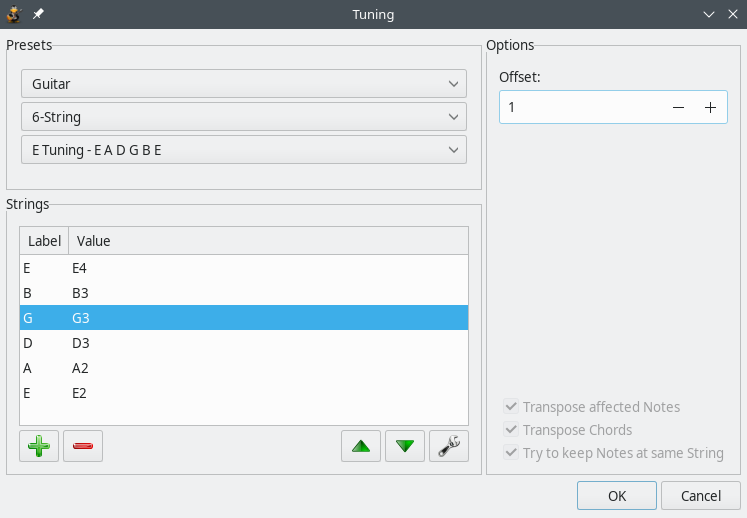
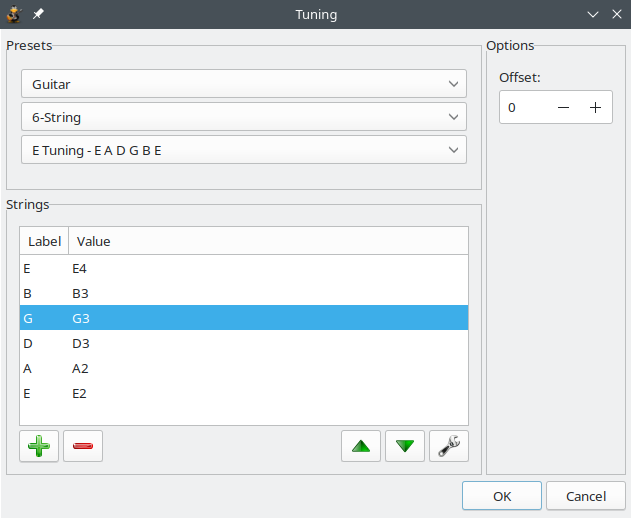
simplify "Change Tuning" dialog
remove options: previous behavior was unclear (and undocumented)

keep it simple
- never change notes pitch, there's a dedicated "transpose" action
  available for that
- try to keep strings and chords only if number of strings did not change,
  and if all notes were shifted by the same value
- else re-allocate notes to strings

also updated help:
- screenshot
- documentation of behavior
- description of "Offset" parameter

diff --git a/desktop/TuxGuitar/share/help/detail_composition_track.html b/desktop/TuxGuitar/share/help/detail_composition_track.html
@@ -103,6 +103,7 @@
     <h4>Tuning</h4>
     <p>Using the dropdown lists under <strong>Presets</strong>, you can select your stringed instrument, the number of strings and the tuning of the instrument from a range of predefined tunings.</p>
     <img src="images/track_properties_tuning.png" />
+    <p>When changing tuning of a non-empty track, <em>notes</em> and <em>chords</em> are preserved as far as possible, and <em>fret numbers</em> are adapted. Notes may be lost if they become unplayable in new selected tuning. Parameter <strong>Offset</strong> enables you to change globally the track's pitch when playing song. This parameter does not have any impact neither on score nor on tablature graphical representation.</p>
     <p>If you want to use a tuning that is not included in the presets, you can select <strong>-- Custom Tunings --</strong> in the first dropdown menu and edit the tuning of each individual string under <strong>Strings</strong>. You can now save your own tuning in the list of custom tunings.</p>
     <img src="images/track_properties_tuning_custom.png" />
   </section>

diff --git a/desktop/TuxGuitar/src/org/herac/tuxguitar/app/view/dialog/track/TGTrackTuningDialog.java b/desktop/TuxGuitar/src/org/herac/tuxguitar/app/view/dialog/track/TGTrackTuningDialog.java
@@ -38,12 +38,8 @@ public class TGTrackTuningDialog {
 	
 	private TuningGroup allTuningsGroup;	// group #0 = custom tuning presets, other groups = TuxGuitar's tuning presets
 
-	private List<TGTrackTuningModel> initialTuning;
 	private List<TGTrackTuningModel> tuning;
 	private UITable<TGTrackTuningModel> tuningTable;
-	private UICheckBox stringTransposition;
-	private UICheckBox stringTranspositionTryKeepString;
-	private UICheckBox stringTranspositionApplyToChords;
 	private UISpinner offsetSpinner;
 	private UIButton buttonEdit;
 	private UIButton buttonDelete;
@@ -75,7 +71,6 @@ public class TGTrackTuningDialog {
 		
 		if(!songManager.isPercussionChannel(track.getSong(), track.getChannelId())) {
 			this.tuning = getTuningFromTrack(track);
-			this.initialTuning = getTuningFromTrack(track);
 			
 			UIFactory factory = this.getUIFactory();
 			UIWindow parent = this.context.getAttribute(TGViewContext.ATTRIBUTE_PARENT);
@@ -457,11 +452,6 @@ public class TGTrackTuningDialog {
 		top.setLayout(topLayout);
 		panelLayout.set(top, 1, 1, UITableLayout.ALIGN_FILL, UITableLayout.ALIGN_TOP, true, true, 1, 1, null, null, 0f);
 		
-		UITableLayout bottomLayout = new UITableLayout(0f);
-		UIPanel bottom = factory.createPanel(panel, false);
-		bottom.setLayout(bottomLayout);
-		panelLayout.set(bottom, 3, 1, UITableLayout.ALIGN_FILL, UITableLayout.ALIGN_BOTTOM, true, true, 1, 1, null, null, 0f);
-		
 		//---------------------------------OFFSET--------------------------------
 		UILabel offsetLabel = factory.createLabel(top);
 		offsetLabel.setText(TuxGuitar.getProperty("tuning.offset") + ":");
@@ -473,31 +463,6 @@ public class TGTrackTuningDialog {
 		this.offsetSpinner.setValue(track.getOffset());
 		topLayout.set(this.offsetSpinner, 2, 1, UITableLayout.ALIGN_FILL, UITableLayout.ALIGN_CENTER, true, true);
 		
-		//---------------------------------OPTIONS----------------------------------
-		this.stringTransposition = factory.createCheckBox(bottom);
-		this.stringTransposition.setText(TuxGuitar.getProperty("tuning.strings.transpose"));
-		this.stringTransposition.setSelected( true );
-		bottomLayout.set(this.stringTransposition, 1, 1, UITableLayout.ALIGN_FILL, UITableLayout.ALIGN_CENTER, true, true);
-		
-		this.stringTranspositionApplyToChords = factory.createCheckBox(bottom);
-		this.stringTranspositionApplyToChords.setText(TuxGuitar.getProperty("tuning.strings.transpose.apply-to-chords"));
-		this.stringTranspositionApplyToChords.setSelected( true );
-		bottomLayout.set(this.stringTranspositionApplyToChords, 2, 1, UITableLayout.ALIGN_FILL, UITableLayout.ALIGN_CENTER, true, true);
-		
-		this.stringTranspositionTryKeepString = factory.createCheckBox(bottom);
-		this.stringTranspositionTryKeepString.setText(TuxGuitar.getProperty("tuning.strings.transpose.try-keep-strings"));
-		this.stringTranspositionTryKeepString.setSelected( true );
-		bottomLayout.set(this.stringTranspositionTryKeepString, 3, 1, UITableLayout.ALIGN_FILL, UITableLayout.ALIGN_CENTER, true, true);
-		
-		this.stringTransposition.addSelectionListener(new UISelectionListener() {
-			public void onSelect(UISelectionEvent event) {
-				UICheckBox stringTransposition = TGTrackTuningDialog.this.stringTransposition;
-				UICheckBox stringTranspositionApplyToChords = TGTrackTuningDialog.this.stringTranspositionApplyToChords;
-				UICheckBox stringTranspositionTryKeepString = TGTrackTuningDialog.this.stringTranspositionTryKeepString;
-				stringTranspositionApplyToChords.setEnabled((stringTransposition.isEnabled() && stringTransposition.isSelected()));
-				stringTranspositionTryKeepString.setEnabled((stringTransposition.isEnabled() && stringTransposition.isSelected()));
-			}
-		});
 	}
 	
 	private void initButtons(UILayoutContainer parent) {
@@ -674,18 +639,6 @@ public class TGTrackTuningDialog {
 		return(true);
 	}
 	
-	private static boolean areTuningsEqual(List<TGTrackTuningModel> a, List<TGTrackTuningModel> b) {
-		if(a.size() == b.size()) {
-			for(int i = 0 ; i < a.size(); i ++) {
-				if(!a.get(i).getValue().equals(b.get(i).getValue())) {
-					return false;
-				}
-			}
-			return true;
-		}
-		return false;
-	}
-	
 	private void updateTuningTable() {
 		TGTrackTuningModel selection = this.tuningTable.getSelectedValue();
 		
@@ -710,11 +663,6 @@ public class TGTrackTuningDialog {
 		buttonDelete.setEnabled(model != null);
 		buttonMoveUp.setEnabled(model != null && index > 0);
 		buttonMoveDown.setEnabled(model != null && index < this.tuning.size() - 1);
-		
-		boolean isDefault = areTuningsEqual(this.tuning, this.initialTuning);
-		stringTransposition.setEnabled(!isDefault);
-		stringTranspositionApplyToChords.setEnabled(!isDefault);
-		stringTranspositionTryKeepString.setEnabled(!isDefault);
 	}
 	
 	private void updateTuningControls() {
@@ -759,9 +707,6 @@ public class TGTrackTuningDialog {
 		final Integer offset = ((songManager.isPercussionChannel(song, track.getChannelId())) ? 0 : this.offsetSpinner.getValue());
 		final boolean offsetChanges = (offset != null && !offset.equals(track.getOffset()));
 		final boolean tuningChanges = hasTuningChanges(track, strings);
-		final boolean transposeStrings = shouldTransposeStrings(track, track.getChannelId());
-		final boolean transposeApplyToChords = (transposeStrings && this.stringTranspositionApplyToChords.isSelected());
-		final boolean transposeTryKeepString = (transposeStrings && this.stringTranspositionTryKeepString.isSelected());
 		
 		if( this.validateTrackTuning(strings)) {
 			if( tuningChanges || offsetChanges ){
@@ -771,9 +716,6 @@ public class TGTrackTuningDialog {
 				
 				if( tuningChanges ) {
 					tgActionProcessor.setAttribute(TGChangeTrackTuningAction.ATTRIBUTE_STRINGS, strings);
-					tgActionProcessor.setAttribute(TGChangeTrackTuningAction.ATTRIBUTE_TRANSPOSE_STRINGS, transposeStrings);
-					tgActionProcessor.setAttribute(TGChangeTrackTuningAction.ATTRIBUTE_TRANSPOSE_TRY_KEEP_STRINGS, transposeTryKeepString);
-					tgActionProcessor.setAttribute(TGChangeTrackTuningAction.ATTRIBUTE_TRANSPOSE_APPLY_TO_CHORDS, transposeApplyToChords);
 				}
 				if( offsetChanges ) {
 					tgActionProcessor.setAttribute(TGChangeTrackTuningAction.ATTRIBUTE_OFFSET, offset);
@@ -792,16 +734,6 @@ public class TGTrackTuningDialog {
 			return false;
 		}
 		return true;
-	}
-	
-	private boolean shouldTransposeStrings(TGTrack track, int selectedChannelId){
-		if( this.stringTransposition.isSelected()){
-			boolean percussionChannelNew = findSongManager().isPercussionChannel(track.getSong(), selectedChannelId);
-			boolean percussionChannelOld = findSongManager().isPercussionChannel(track.getSong(), track.getChannelId());
-			
-			return (!percussionChannelNew && !percussionChannelOld);
-		}
-		return false;
 	}
 	
 	private boolean hasTuningChanges(TGTrack track, List<TGString> newStrings){

diff --git a/common/TuxGuitar-editor-utils/src/org/herac/tuxguitar/editor/action/track/TGChangeTrackTuningAction.java b/common/TuxGuitar-editor-utils/src/org/herac/tuxguitar/editor/action/track/TGChangeTrackTuningAction.java
@@ -1,5 +1,6 @@
 package org.herac.tuxguitar.editor.action.track;
 
+import java.util.ArrayList;
 import java.util.List;
 
 import org.herac.tuxguitar.action.TGActionContext;
@@ -16,9 +17,6 @@ public class TGChangeTrackTuningAction extends TGActionBase {
 	
 	public static final String ATTRIBUTE_OFFSET = "offset";
 	public static final String ATTRIBUTE_STRINGS = "strings";
-	public static final String ATTRIBUTE_TRANSPOSE_STRINGS = "transposeStrings";
-	public static final String ATTRIBUTE_TRANSPOSE_TRY_KEEP_STRINGS = "transposeTryKeepString";
-	public static final String ATTRIBUTE_TRANSPOSE_APPLY_TO_CHORDS = "transposeApplyToChords";
 	
 	public TGChangeTrackTuningAction(TGContext context) {
 		super(context, NAME);
@@ -32,16 +30,32 @@ public class TGChangeTrackTuningAction extends TGActionBase {
 		if( track != null ) {
 			TGSongManager songManager = getSongManager(context);
 			if( strings != null ){
-				int[] transpositions = createTranspositions(track, strings);
-				
-				songManager.getTrackManager().changeInstrumentStrings(track, strings);
-				
-				Boolean transposeStrings = Boolean.TRUE.equals(context.getAttribute(ATTRIBUTE_TRANSPOSE_STRINGS));
-				if( Boolean.TRUE.equals(transposeStrings) ){
-					boolean transposeTryKeepString = Boolean.TRUE.equals(context.getAttribute(ATTRIBUTE_TRANSPOSE_TRY_KEEP_STRINGS));
-					boolean transposeApplyToChords = Boolean.TRUE.equals(context.getAttribute(ATTRIBUTE_TRANSPOSE_APPLY_TO_CHORDS));
-					
-					songManager.getTrackManager().transposeNotes(track, transpositions, transposeTryKeepString, transposeApplyToChords );
+				int transposition = 0; // did all strings change by the same value? if so, set variable to a non-zero value
+				if (track.getStrings().size() == strings.size()) {
+					transposition = track.getString(1).getValue() - strings.get(0).getValue();
+					for (int i=1; i<strings.size();i++) {
+						if ((track.getString(i+1).getValue() - strings.get(i).getValue()) != transposition) {
+							transposition = 0;
+							break;
+						}
+					}
+				}
+				if (transposition != 0) {
+					// same number of strings, all shifted by the same value
+					int[] transpositions = new int[strings.size()];
+					for (int i=0; i<strings.size();i++) {
+						transpositions[i] = transposition;
+					}
+					track.setStrings(strings);
+					songManager.getTrackManager().transposeNotes(track, transpositions, true, true );
+				} else {
+					// reallocate notes to strings
+					List<Integer> fromStrings = new ArrayList<Integer>();
+					for (int i=1; i<=track.getStrings().size(); i++) {
+						fromStrings.add(track.getString(i).getValue());
+					}
+					track.setStrings(strings);
+					songManager.getTrackManager().allocateNotesToStrings(fromStrings, track, strings);
 				}
 			}
 			if( offset != null ) {

diff --git a/common/TuxGuitar-lib/src/org/herac/tuxguitar/song/managers/TGTrackManager.java b/common/TuxGuitar-lib/src/org/herac/tuxguitar/song/managers/TGTrackManager.java
@@ -299,13 +299,6 @@ public class TGTrackManager {
 		}
 	}
 	
-	public void changeInstrumentStrings(TGTrack track, List<TGString> strings){
-		if(strings.size() < track.getStrings().size()){
-			removeNotesAfterString(track,strings.size());
-		}
-		track.setStrings(strings);
-	}
-	
 	public void removeNotesAfterString(TGTrack track,int string){
 		Iterator<TGMeasure> it = track.getMeasures();
 		while(it.hasNext()){
@@ -347,6 +340,13 @@ public class TGTrackManager {
 		while(it.hasNext()){
 			TGMeasure measure = (TGMeasure)it.next();
 			this.songManager.getMeasureManager().orderBeats(measure);
+		}
+	}
+	
+	public void allocateNotesToStrings(List<Integer> fromStringValues, TGTrack track, List<TGString> toStrings) {
+		Iterator<TGMeasure> it = track.getMeasures();
+		while (it.hasNext()) {
+			this.allocateMeasureNotesToStrings(fromStringValues, it.next(), toStrings, track.getMaxFret());
 		}
 	}
 	
